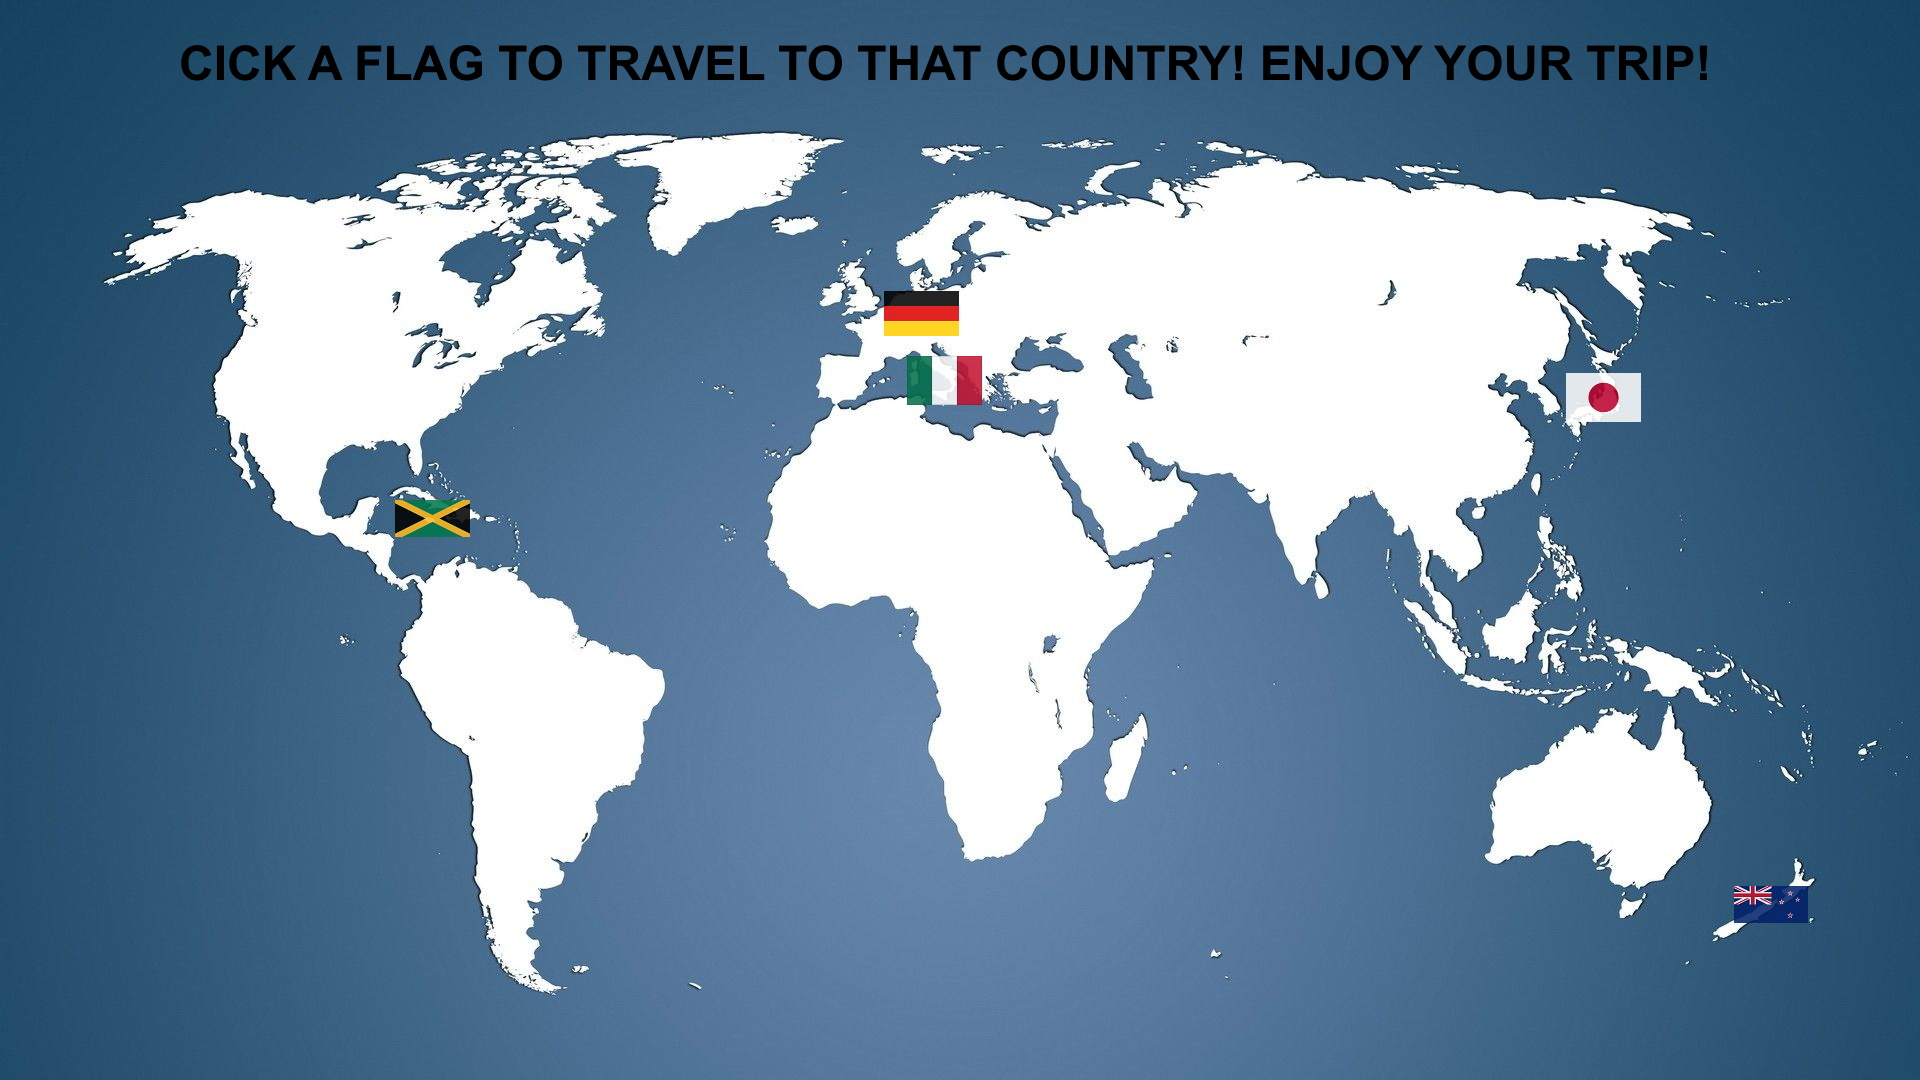
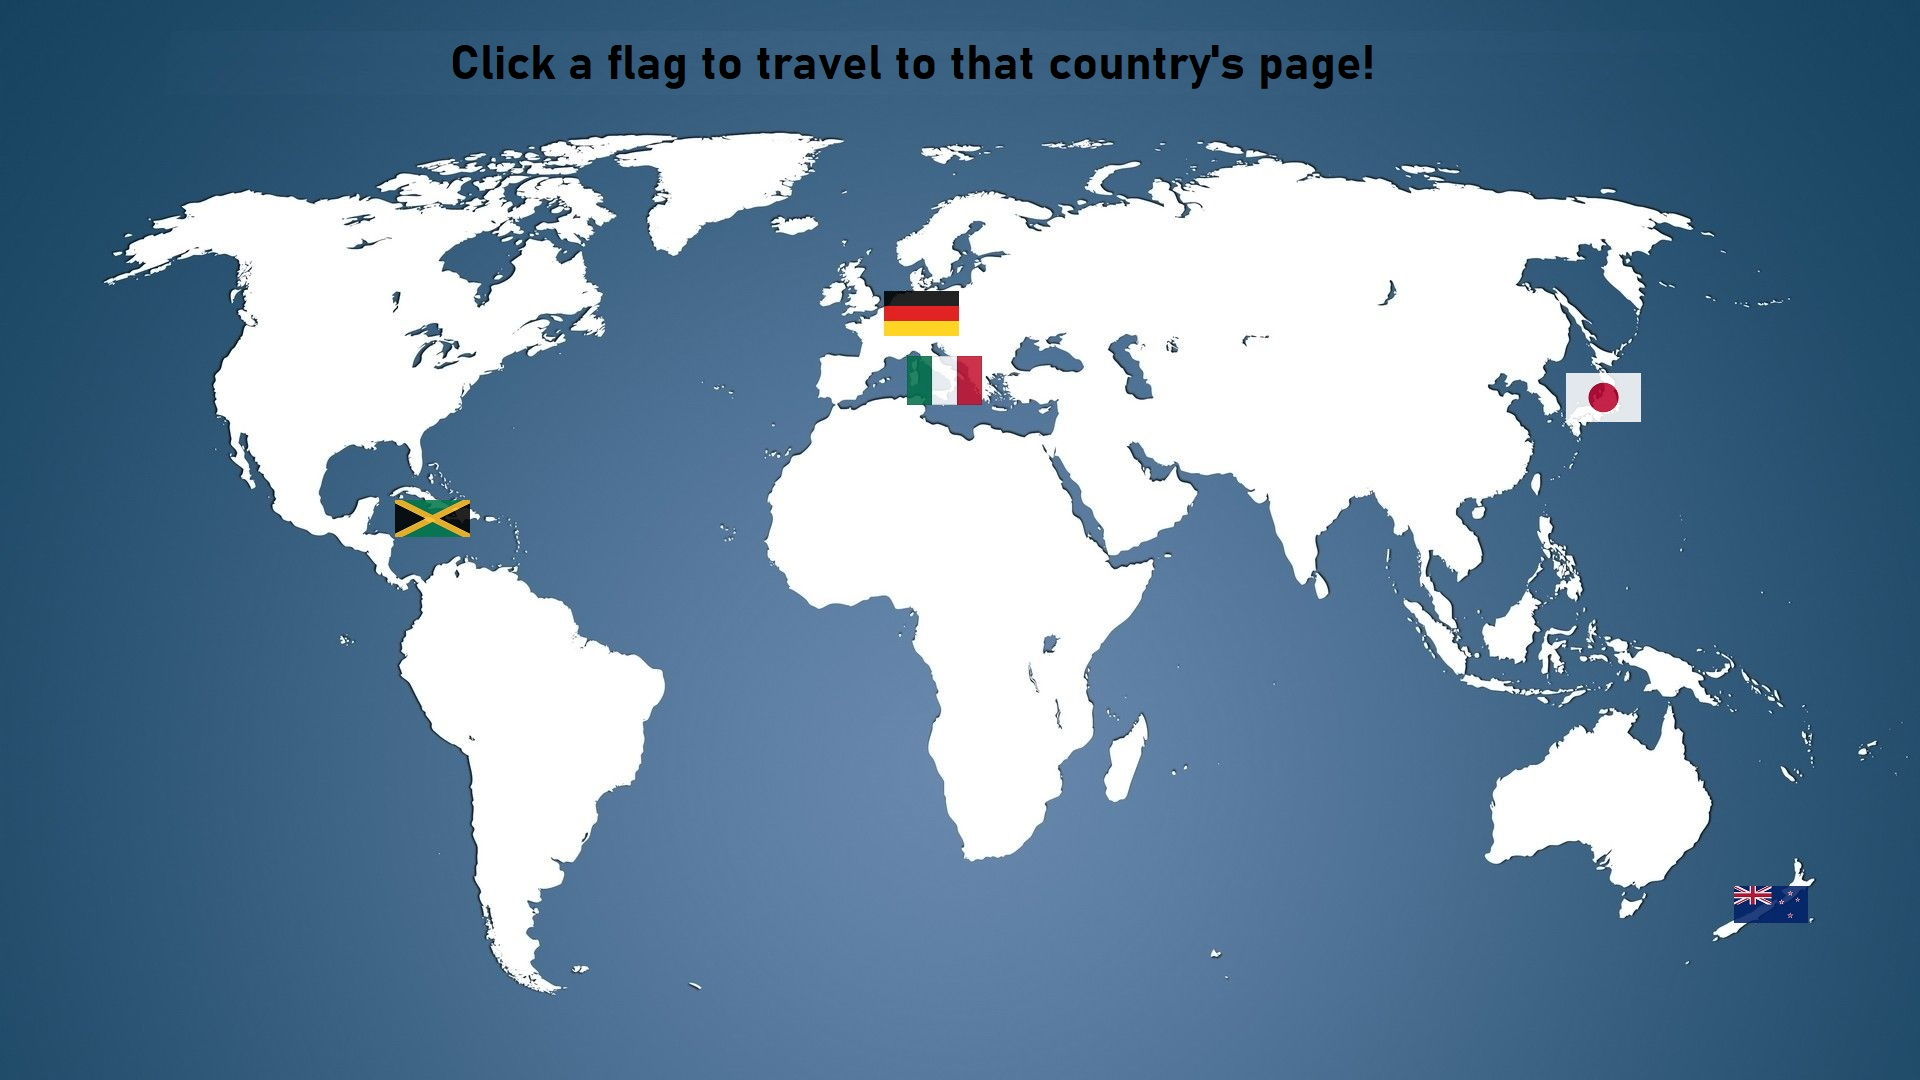
landing page finished, germany finished

Changed region(s): [[0.0938, 0.0306, 0.9062, 0.0917], [0.4688, 0.275, 0.5, 0.3056]]

diff --git a/germany.css b/germany.css
@@ -8,7 +8,7 @@ background-color: white
 
 .column {
     display: flex;
-    flex-direction: column;
+    flex-flow: column wrap;
     flex: 1;
     padding: 2rem;
     border: 4px black solid;
@@ -75,6 +75,7 @@ background-color: white
     text-shadow: black 0px 1px;
     font-weight: bold;
     font-size: xx-large;
+    border: black 2px solid;
 }
 
 .title_red {
@@ -83,6 +84,9 @@ background-color: white
     margin: 0;
     font-weight: bold;
     font-size: xx-large;
+    border: black 2px solid;
+    border-top: none;
+    padding-left: 2px;
 }
 
 .title_yellow {
@@ -91,5 +95,43 @@ background-color: white
     margin: 0;
     font-weight: bold;
     font-size: xx-large;
+    border: black 2px solid;
+    border-top: none;
+    padding-left: 2px;
 }
 
+.logo img {
+    width: 150px;
+    height: 150px;
+    border: solid black 2px;
+    margin-left: 2px;
+    margin-right: 2px;
+}
+
+.topnav {
+    /* background-color: rgba(18, 109, 228,0.01); */
+    overflow: hidden;
+    
+  }
+  
+  /* Style the links inside the navigation bar */
+  .topnav a {
+    float: left;
+    color: black;
+    text-align: center;
+    padding: 10px;
+    text-decoration: none;
+    font-size: 17px; 
+  }
+  
+  /* Change the color of links on hover */
+  .topnav a:hover {
+    background-color: #ddd;
+    color: black;
+  }
+  
+  /* Add a color to the active/current link */
+  .topnav a.active {
+    background-color: #05010f;
+    color: white;
+  }

diff --git a/index.html b/index.html
@@ -4,17 +4,18 @@
     <meta charset="UTF-8">
     <meta http-equiv="X-UA-Compatible" content="IE=edge">
     <meta name="viewport" content="width=device-width, initial-scale=1.0">
-    <title>Document</title>
+    <title>Goody2Shoes Travel Guide</title>
+    <link rel="stylesheet" href="main.css">
 </head>
 <body>
-    <img src="images/click_map.jpg" alt="a map of the world" usemap="#world">
+    <img class="map" src="images/click_map.jpg" alt="a map of the world" usemap="#world">
     
     <map name="world">
         <area shape="rect" coords="879,287,963,337"  alt="germany" href="germany.html">
         <area shape="rect" coords="1729,878,1817,932"  alt="new zealand" href="dcNewZealand.html">
+        <area shape="rect" coords="386,495,477,543"  alt="jamaica" href="jamaica.html">
+        <area shape="rect" coords="905,354,983,407"  alt="italy" href="italy.html">
+        <area shape="rect" coords="1560,370,1648,427"  alt="japan" href="japan.html">
     </map>
-=======
-    
->>>>>>> main
 </body>
 </html>

diff --git a/germany.html b/germany.html
@@ -14,15 +14,21 @@
                 <h1 class="title">GER</h1>
                 <div style="margin-left:50px"><h1 class="title_red">MA</h1></div>
                 <div style="margin-left:100px"><h1 class="title_yellow">NY</h1></div>
-                <h2>Goody 2 Shoes</h2>
         </div>
 
+        <div class="logo"><img src="japanImages/Goody2shoes-logos_black.png" alt="logo"></div>
+        
         <div class="headline_img">
             <img src="images/german_flag.png" alt="the german flag">
         </div>
 
-        <div class="navbar">
-            <nav class="nav_bar">NAV BAR GOES HERE</nav>
+        <div class="topnav">
+            <a href="index.html">Home</a>
+            <a class="active" href="germany.html">Germany</a>
+            <a href="japan.html">Japan</a>
+            <a href="jamaica.html">Jamaica</a>
+            <a href="italy.html">Italy</a>
+            <a href="dcNewZealand.html">New Zealand</a>
         </div>
     </header>
 

diff --git a/main.css b/main.css
@@ -1,0 +1,10 @@
+
+
+
+
+
+
+
+body {
+    background-color: rgb(29, 73, 102);
+}
